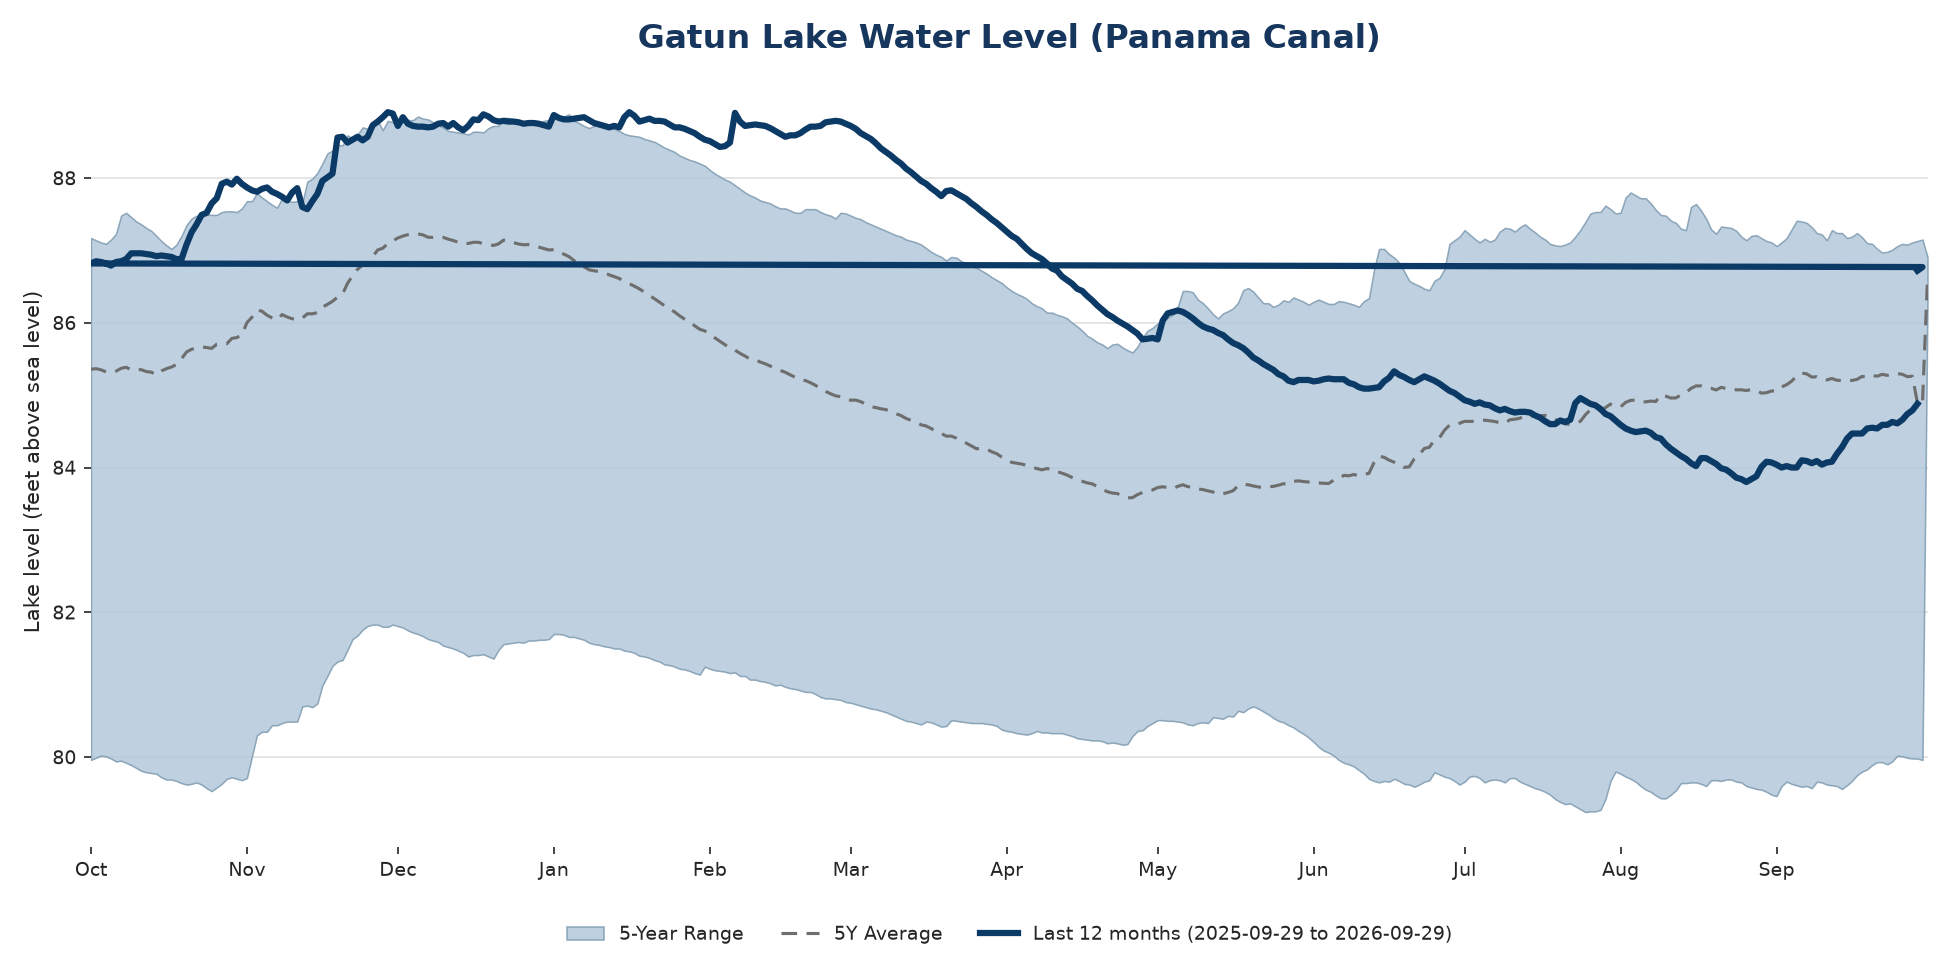
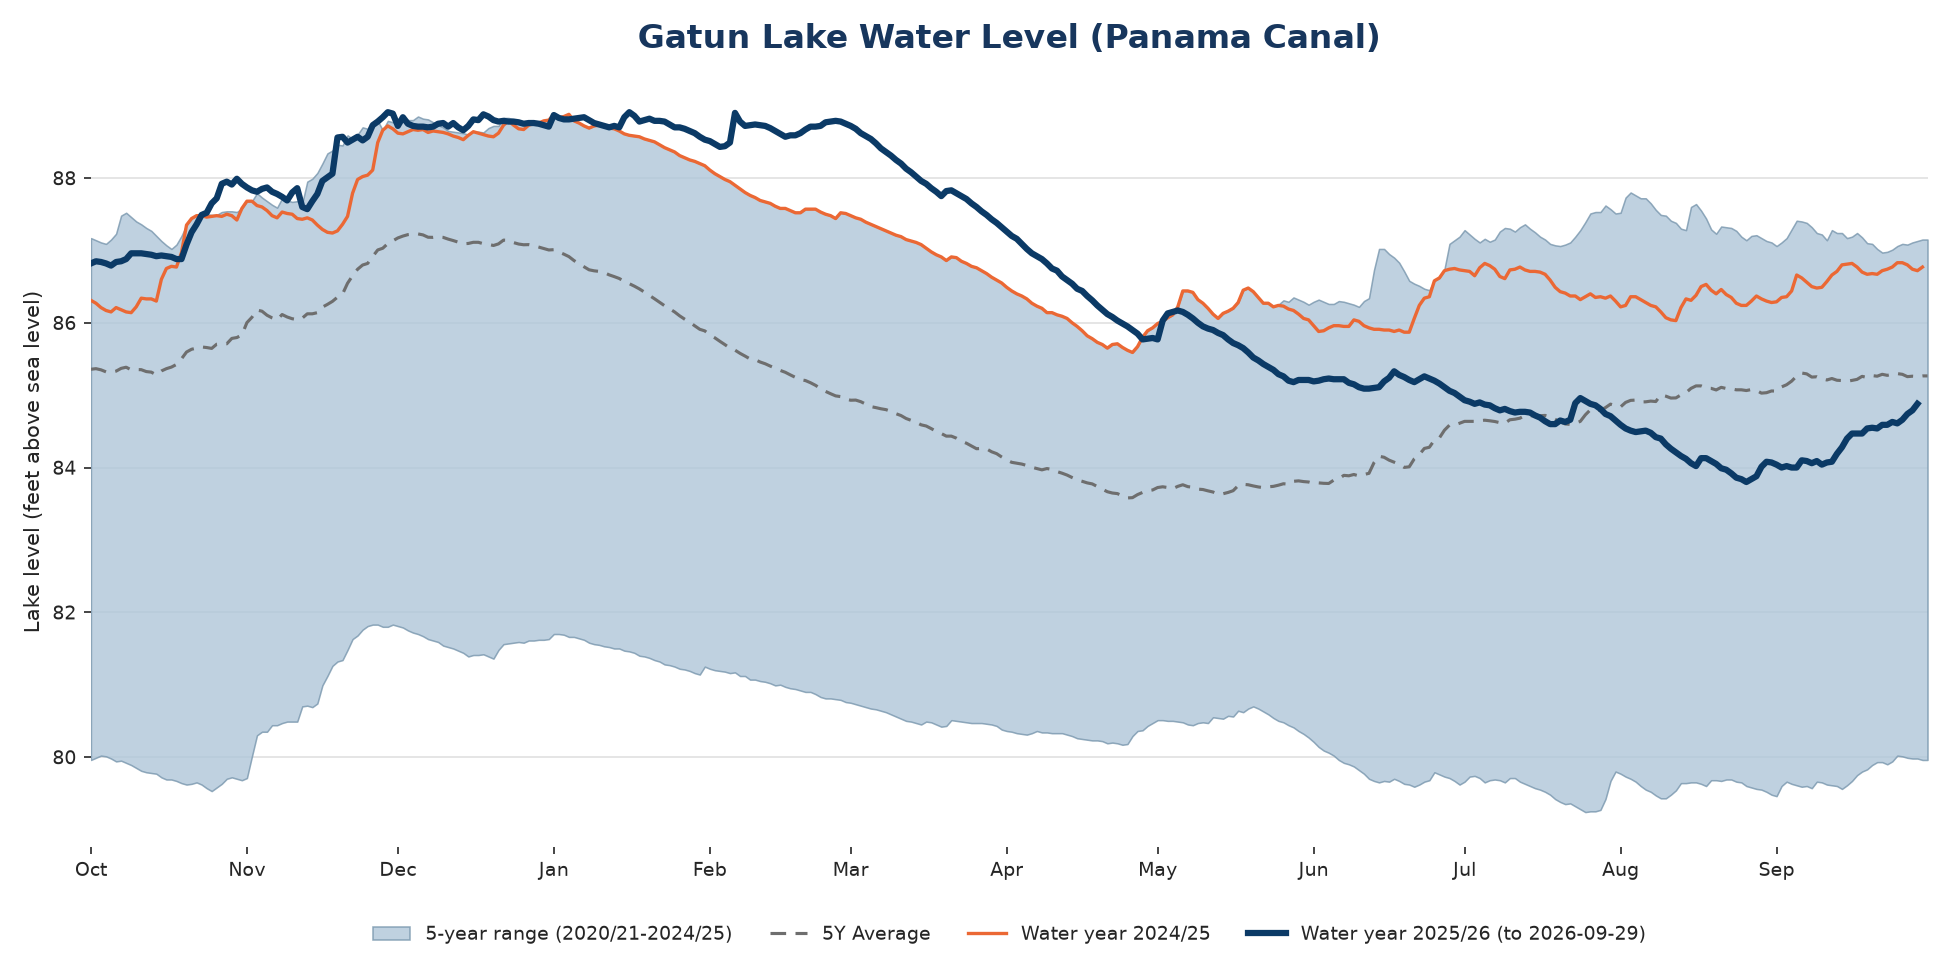
Native AGSI-style water-year Excel charts in the Rhine and Gatun workbooks; CLAUDE.md with standing conventions
- water_year_chart.py: adds a 'Water year chart' sheet (5-year min-max band, 5Y average,
  previous + current Oct-Sep water year) with a native Excel chart, redrawn every run.
- CLAUDE.md records the owner's conventions, incl. charts in every pulled xlsx.
- Fixed PNG charts: current water year instead of a rolling 12 months (which wrapped).

Claude-Session: https://claude.ai/code/session_01UhawKYpi1n6Y1dyxkRBGxu

diff --git a/water_year_chart.py b/water_year_chart.py
@@ -1,0 +1,135 @@
+"""
+Shared helper: add an AGSI-style "water year" sheet with a native Excel
+chart to a workbook - the same look as the gas storage charts:
+  - shaded band = min-max of the 5 complete water years before this one
+  - dashed grey = 5-year average
+  - orange      = previous water year
+  - dark blue   = current water year (to the latest day)
+Water year runs Oct-Sep (storage/level charts in this repo use Oct-Sep).
+
+Usage (after the workbook has been written):
+    import water_year_chart
+    water_year_chart.add_water_year_chart(path, series, "Rhine at Kaub", "cm")
+where `series` is a pandas Series of daily values indexed by date.
+"""
+import os
+
+import pandas as pd
+from openpyxl import load_workbook
+from openpyxl.chart import AreaChart, LineChart, Reference
+from openpyxl.chart.series import SeriesLabel
+from openpyxl.chart.shapes import GraphicalProperties
+from openpyxl.drawing.line import LineProperties
+
+SHEET = "Water year chart"
+BAND_FILL = "AFC6D9"
+AVG_LINE = "6E6E6E"
+PREV_LINE = "EB6834"
+CURR_LINE = "0B3A66"
+
+
+def _day_of_water_year(idx):
+    start = pd.DatetimeIndex([pd.Timestamp(y if m >= 10 else y - 1, 10, 1) for y, m in zip(idx.year, idx.month)])
+    return (idx - start).days + 1
+
+
+def water_year_table(series):
+    """One row per day of the water year (1-365): label, band, average, previous and current year."""
+    s = series.dropna().sort_index()
+    s.index = pd.DatetimeIndex(s.index)
+    last = s.index.max()
+    wy_start = pd.Timestamp(last.year if last.month >= 10 else last.year - 1, 10, 1)
+    prev_start = wy_start - pd.DateOffset(years=1)
+    hist_start = wy_start - pd.DateOffset(years=5)
+
+    def by_day(part):
+        d = part.groupby(_day_of_water_year(part.index)).mean()
+        return d.reindex(range(1, 366))   # Feb 29 (day 152 in leap years) folds into its neighbours' days
+
+    hist = s[(s.index >= hist_start) & (s.index < wy_start)]
+    hday = pd.Series(hist.values, index=_day_of_water_year(hist.index))
+    hday = hday[hday.index <= 365]
+    band = hday.groupby(level=0).agg(["min", "max", "mean"]).reindex(range(1, 366)).interpolate().ffill().bfill()
+    labels = [(pd.Timestamp(2001, 10, 1) + pd.Timedelta(days=d - 1)).strftime("%d-%b") for d in range(1, 366)]
+    t = pd.DataFrame({
+        "Day": labels,
+        "5Y min": band["min"].round(2).values,
+        "5Y range (max-min)": (band["max"] - band["min"]).round(2).values,
+        "5Y max": band["max"].round(2).values,
+        "5Y average": band["mean"].round(2).values,
+        f"WY {prev_start.year}/{str(prev_start.year + 1)[2:]}": by_day(s[(s.index >= prev_start) & (s.index < wy_start)]).round(2).values,
+        f"WY {wy_start.year}/{str(wy_start.year + 1)[2:]}": by_day(s[s.index >= wy_start]).round(2).values,
+    })
+    meta = {"hist": f"{hist_start.year}/{str(hist_start.year + 1)[2:]}-{prev_start.year}/{str(prev_start.year + 1)[2:]}",
+            "last": last.date()}
+    return t, meta
+
+
+def _line(series, colour, width_emu, dash=None):
+    series.graphicalProperties = GraphicalProperties(ln=LineProperties(solidFill=colour, w=width_emu, prstDash=dash))
+    series.smooth = False
+    series.marker.symbol = "none"
+
+
+def add_water_year_chart(path, series, title, unit):
+    table, meta = water_year_table(series)
+    wb = load_workbook(path)
+    if SHEET in wb.sheetnames:
+        del wb[SHEET]
+    ws = wb.create_sheet(SHEET, 1 if len(wb.sheetnames) > 1 else None)
+    ws.append(list(table.columns))
+    for row in table.itertuples(index=False):
+        ws.append([None if (isinstance(v, float) and pd.isna(v)) else v for v in row])
+    n = len(table) + 1
+    ws.column_dimensions["A"].width = 9
+    for col in "BCDEFG":
+        ws.column_dimensions[col].width = 14
+
+    cats = Reference(ws, min_col=1, min_row=2, max_row=n)
+    # Band: stacked area of (min, max-min) with the min part invisible.
+    area = AreaChart()
+    area.grouping = "stacked"
+    area.add_data(Reference(ws, min_col=2, max_col=3, min_row=1, max_row=n), titles_from_data=True)
+    area.set_categories(cats)
+    base, rng = area.series
+    base.graphicalProperties = GraphicalProperties(noFill=True, ln=LineProperties(noFill=True))
+    rng.graphicalProperties = GraphicalProperties(solidFill=BAND_FILL, ln=LineProperties(noFill=True))
+    rng.tx = SeriesLabel(v=f"5-year range ({meta['hist']})")
+    base.tx = SeriesLabel(v=" ")
+
+    lines = LineChart()
+    lines.add_data(Reference(ws, min_col=5, max_col=7, min_row=1, max_row=n), titles_from_data=True)
+    lines.set_categories(cats)
+    avg, prev, curr = lines.series
+    _line(avg, AVG_LINE, 19050, "dash")
+    _line(prev, PREV_LINE, 19050)
+    _line(curr, CURR_LINE, 38100)
+
+    area.title = f"{title} - water year (Oct-Sep), data to {meta['last']}"
+    area.y_axis.title = unit
+    area.x_axis.tickLblSkip = 30
+    area.x_axis.tickMarkSkip = 30
+    area.x_axis.tickLblPos = "low"   # dates below the plot, not on the zero line
+    area.x_axis.delete = False
+    area.y_axis.delete = False
+    vals = pd.concat([table["5Y min"], table["5Y max"], table.iloc[:, 5], table.iloc[:, 6]]).dropna()
+    span = float(vals.max() - vals.min()) or 1.0
+    area.y_axis.scaling.min = float(vals.min() - 0.05 * span)
+    area.y_axis.scaling.max = float(vals.max() + 0.05 * span)
+    lines.y_axis.scaling.min = area.y_axis.scaling.min
+    lines.y_axis.scaling.max = area.y_axis.scaling.max
+    lines.y_axis.delete = True   # one visible y axis (shared id); the area chart draws it
+    area.legend.position = "b"
+    area.height, area.width = 12, 26
+    area += lines
+    ws.add_chart(area, "I2")
+
+    root, ext = os.path.splitext(path)
+    tmp = f"{root}.tmp{os.getpid()}{ext}"
+    try:
+        wb.save(tmp)
+        os.replace(tmp, path)
+    finally:
+        if os.path.exists(tmp):
+            os.remove(tmp)
+    return table

diff --git a/rest_of_world/GATUN_LAKE_LEVEL.py b/rest_of_world/GATUN_LAKE_LEVEL.py
@@ -26,6 +26,7 @@ import requests
 
 sys.path.insert(0, os.path.dirname(os.path.dirname(os.path.abspath(__file__))))  # repo root, for xlsx_notes
 
+import water_year_chart
 import xlsx_notes
 
 URL = "https://evtms-rpts.pancanal.com/eng/h2o/Download_Gatun_Lake_Water_Level_History.csv"
@@ -69,6 +70,8 @@ def main():
         "dashboard's underlying CSV. Daily, back to 1965-01-01.",
     ]
     xlsx_notes.write_workbook(args.out, {"Daily": df}, notes, {"UNITS", "WHY THIS MATTERS", "SOURCE"})
+    water_year_chart.add_water_year_chart(args.out, df.set_index(pd.to_datetime(df["date"]))["level_ft"],
+                                          "Gatun Lake (Panama Canal)", "feet above sea level")
     print(f"Saved {args.out}", flush=True)
 
 

diff --git a/rest_of_world/rhine_kaub_level.py b/rest_of_world/rhine_kaub_level.py
@@ -31,6 +31,7 @@ import requests
 
 sys.path.insert(0, os.path.dirname(os.path.dirname(os.path.abspath(__file__))))  # repo root, for xlsx_notes
 
+import water_year_chart
 import xlsx_notes
 
 PREPARE_URL = "https://www.pegelonline.wsv.de/gast/historische-zeitreihen/prepare-download"
@@ -161,6 +162,7 @@ def main():
 
     os.makedirs(os.path.dirname(args.out), exist_ok=True)
     xlsx_notes.write_workbook(args.out, {"Data": combined}, NOTES_LINES, NOTES_SECTION_TITLES)
+    water_year_chart.add_water_year_chart(args.out, combined["level_cm"], "Rhine at Kaub", "cm")
     print(f"Saved to {args.out} ({len(combined)} days, {combined.index.min()} to {combined.index.max()})")
 
 

diff --git a/CLAUDE.md b/CLAUDE.md
@@ -1,0 +1,28 @@
+# Energy data repo - working conventions
+
+Standing instructions from the repo owner. Follow these on every change.
+
+## Branches
+- Develop on `github-access-energy`; production is `main`. Every change goes to BOTH branches.
+- External data sites are mostly blocked from the Claude sandbox: run pulls in GitHub Actions.
+
+## Spreadsheets and charts
+- **Every xlsx we pull must include native Excel charts of its data**, redrawn by the
+  script on every run (openpyxl charts inside the workbook, not just a separate PNG).
+  - Storage / reservoir / water-level series: AGSI-style water-year chart via
+    `water_year_chart.add_water_year_chart()` (5-year min-max band, 5Y average,
+    previous and current water year).
+  - Other time series: line or stacked chart of the main columns on a chart sheet.
+- Storage/level/seasonal charts use an **Oct-Sep water year**, not Jan-Dec.
+- Every new or updated PNG chart is committed to `output/` on main and sent to the owner.
+- Units/notes tab via `xlsx_notes.write_workbook()` (atomic write).
+
+## Pull scripts
+- Incremental: backfill gaps only, don't re-pull complete history each run.
+- South America gas demand by sector: data from 2021 only.
+- Ireland gas: GNI transparency pages from 2026-03-31 on (open data covers earlier);
+  ENTSOG is for validation only.
+
+## Housekeeping
+- One-off discovery/inspect/probe/test scripts go in `discovery_archive/`
+  (with their manual-only workflows in `discovery_archive/workflows/`).
